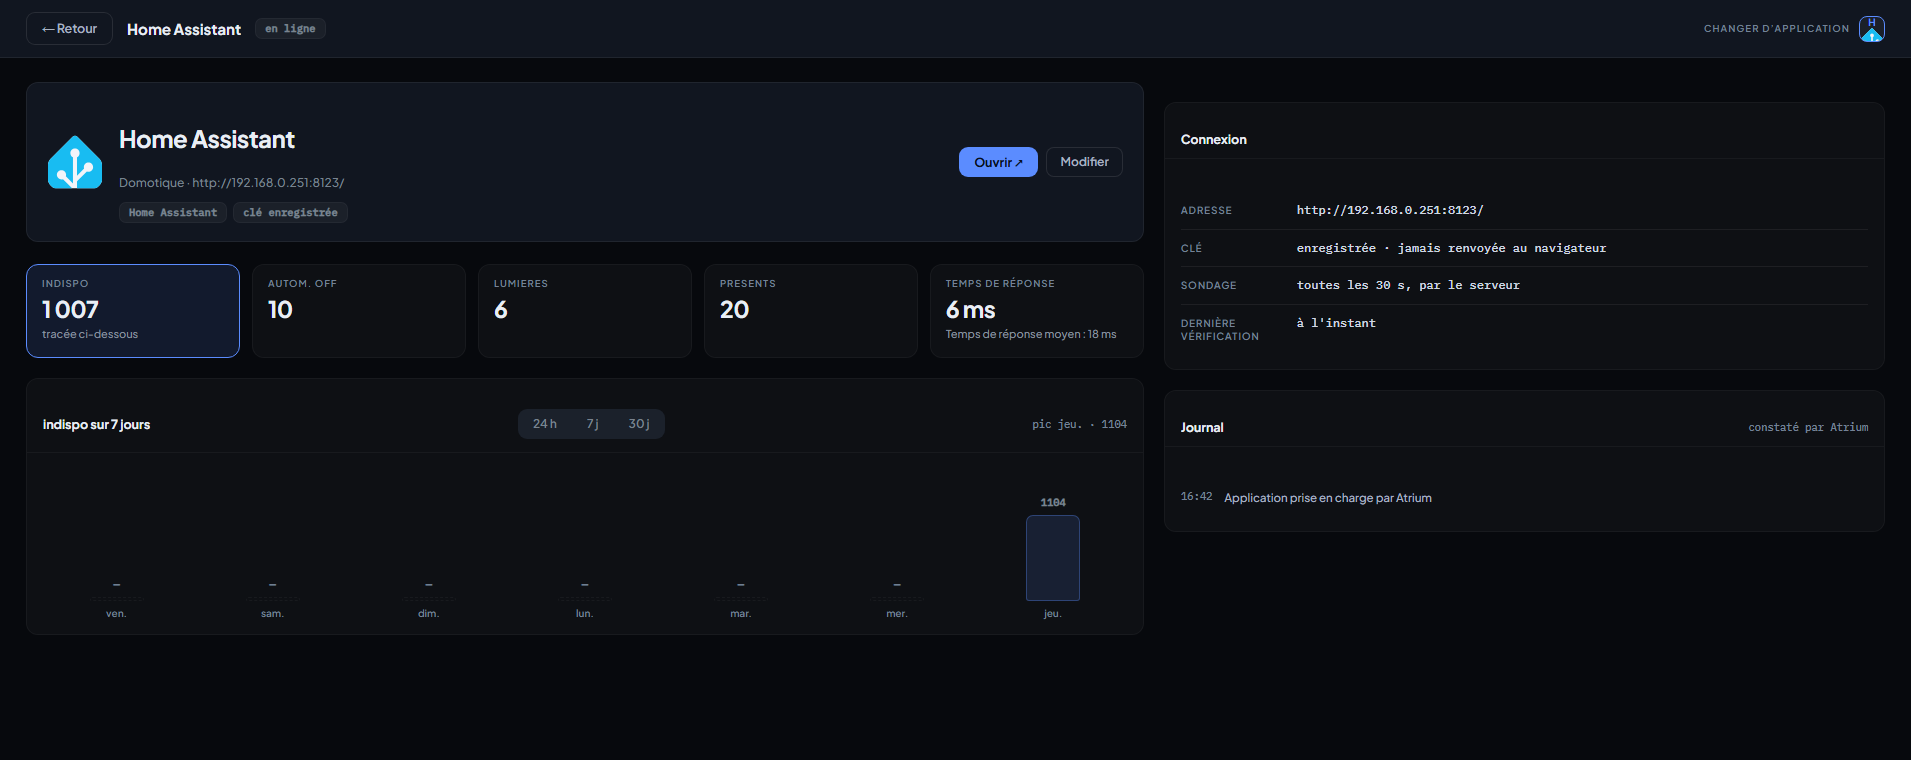
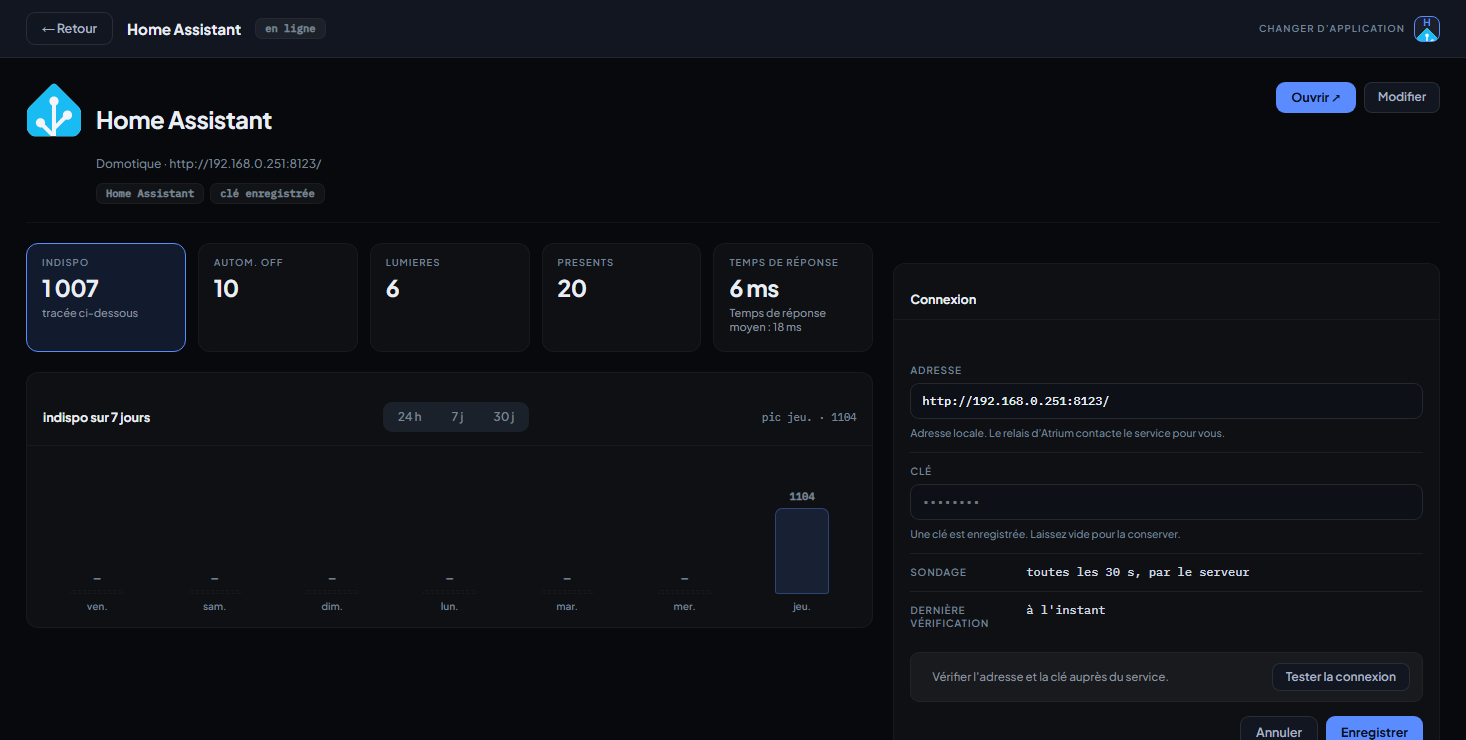
Fiche : entête pleine largeur, et la connexion se modifie sur place
L'entête traverse la page et n'est plus une carte : elle nomme le service, un
filet la sépare de ce qui le détaille, et les mesures comme la connexion
commencent à la même hauteur.

Le panneau Connexion redevient un formulaire — adresse, clé, tester, annuler,
enregistrer. Devoir ouvrir une fenêtre pour corriger une adresse depuis la page
qui la montre était un détour.

Le champ de clé part vide et n'affiche jamais celle qui est enregistrée : le
laisser vide la conserve. Un champ qu'on n'a pas rempli n'est pas une intention
d'effacement.

L'intervalle de rafraîchissement reste une ligne de texte : le sondage est
global, toutes les trente secondes, et le rendre modifiable ici promettrait un
réglage qui n'existe pas.

La version relevée pendant le test est conservée.

Deux blocs avaient encore été renommés par erreur au tour précédent : la carte
d'identité des Réglages et les vignettes d'À propos, dont les règles .ap-tete et
.ap-tuiles étaient devenues .fa-. La carte d'identité, déclarée plus loin dans la
feuille, gagnait sur la mienne — d'où le fond et le contour que l'entête n'aurait
jamais dû avoir. Bornes rétablies, suites Réglages et À propos vertes.

diff --git a/app/static/index.html b/app/static/index.html
@@ -860,7 +860,10 @@ a.card:hover{box-shadow:var(--sh-hover);border-color:var(--accent-border);transf
 .fa-cols{display:grid;grid-template-columns:minmax(0,1.55fr) minmax(0,1fr);gap:20px;
          align-items:start}
 @media (max-width:1080px){ .fa-cols{grid-template-columns:1fr} }
-.fa-tete{display:flex;align-items:flex-start;gap:14px;margin-bottom:20px}
+/* L'entête traverse la page : elle nomme le service, elle n'est pas une carte
+   parmi d'autres. Un filet la sépare de ce qui la détaille. */
+.fa-tete{display:flex;align-items:flex-start;gap:14px;padding-bottom:18px;margin-bottom:20px;
+         border-bottom:1px solid var(--hair2)}
 .fa-tete .logo-chip{width:56px;height:56px;border-radius:14px;font-size:20px}
 .fa-tete h3{font:700 24px/1.1 'Plus Jakarta Sans',sans-serif;letter-spacing:-.02em}
 .fa-sous{margin-top:5px;font:500 12px/1.4 'Plus Jakarta Sans',sans-serif;color:var(--t5)}
@@ -869,7 +872,7 @@ a.card:hover{box-shadow:var(--sh-hover);border-color:var(--accent-border);transf
           font:600 10.5px/1 'IBM Plex Mono',monospace;color:var(--t5)}
 .fa-badge.alerte{background:var(--bad-soft);border-color:var(--bad);color:var(--bad-text)}
 .fa-actions{margin-left:auto;display:flex;gap:8px;flex:none}
-.fa-tuiles{display:grid;grid-template-columns:repeat(auto-fit,minmax(150px,1fr));gap:12px}
+.fa-tuiles{display:grid;grid-template-columns:repeat(auto-fit,minmax(132px,1fr));gap:12px}
 .fa-tuile{padding:14px 15px 16px;border:1px solid var(--hair2);border-radius:12px;
           background:var(--s2);text-align:left;transition:border-color .15s}
 .fa-tuile[data-mes]{cursor:pointer}
@@ -922,6 +925,27 @@ a.card:hover{box-shadow:var(--sh-hover);border-color:var(--accent-border);transf
                letter-spacing:.08em;text-transform:uppercase;color:var(--t7)}
 .fa-conn .r .v{flex:1;min-width:0;font:500 12px/1.4 'IBM Plex Mono',monospace;color:var(--t2);
                overflow:hidden;text-overflow:ellipsis}
+/* Le panneau se modifie sur place : venir voir un service et devoir ouvrir une
+   fenêtre pour corriger son adresse était un détour. */
+.fa-champ{display:flex;flex-direction:column;gap:6px;padding:12px 0;
+          border-bottom:1px solid var(--hair)}
+.fa-champ:last-of-type{border-bottom:0}
+.fa-champ label{font:600 10px/1.3 'Plus Jakarta Sans',sans-serif;letter-spacing:.08em;
+                text-transform:uppercase;color:var(--t7)}
+.fa-champ input{width:100%;padding:9px 11px;border-radius:9px;border:1px solid var(--hair4);
+                background:var(--field);color:var(--t1);
+                font:500 12px/1.3 'IBM Plex Mono',monospace;outline:none;
+                transition:border-color .15s}
+.fa-champ input:focus{border-color:var(--acc)}
+.fa-champ .aide{font:500 10.5px/1.45 'Plus Jakarta Sans',sans-serif;color:var(--t7)}
+.fa-test{display:flex;align-items:center;gap:9px;margin-top:12px;padding:10px 12px;
+         border-radius:9px;border:1px solid var(--hair2);background:var(--s3);
+         font:500 11.5px/1.35 'Plus Jakarta Sans',sans-serif;color:var(--t4)}
+.fa-test .pt{flex:none}
+.fa-test.ok{border-color:var(--ok);background:var(--ok-soft);color:var(--ok-text)}
+.fa-test.bad{border-color:var(--bad);background:var(--bad-soft);color:var(--bad-text)}
+.fa-test button{margin-left:auto;flex:none}
+.fa-pied{display:flex;justify-content:flex-end;gap:8px;margin-top:14px}
 .fa-jrn{display:flex;flex-direction:column}
 .fa-jrn .e{display:flex;gap:12px;padding:9px 0;border-bottom:1px solid var(--hair)}
 .fa-jrn .e:last-child{border-bottom:0}
@@ -1222,19 +1246,19 @@ a.card:hover{box-shadow:var(--sh-hover);border-color:var(--accent-border);transf
 .note-card .tx b{font:600 12.5px/1.2 'Plus Jakarta Sans',sans-serif}
 .note-card .tx span{font:500 11.5px/1.5 'Plus Jakarta Sans',sans-serif;color:var(--muted-2)}
 /* À propos : l'application se décrit, sans rien demander à l'extérieur. */
-.fa-tete{display:flex;align-items:center;gap:16px;padding:18px 20px;border-radius:12px;
+.ap-tete{display:flex;align-items:center;gap:16px;padding:18px 20px;border-radius:12px;
          border:1px solid var(--border);background:var(--surface)}
-.fa-tete .marque{width:46px;height:46px;border-radius:13px;flex:none;display:grid;place-items:center;
+.ap-tete .marque{width:46px;height:46px;border-radius:13px;flex:none;display:grid;place-items:center;
                  background:var(--subtle);border:1px solid var(--border)}
-.fa-tete .marque svg{width:30px;height:30px}
-.fa-tete .tx{display:flex;flex-direction:column;gap:5px;min-width:0}
-.fa-tete .nom{display:flex;align-items:center;gap:9px;
+.ap-tete .marque svg{width:30px;height:30px}
+.ap-tete .tx{display:flex;flex-direction:column;gap:5px;min-width:0}
+.ap-tete .nom{display:flex;align-items:center;gap:9px;
               font:700 19px/1.1 'Plus Jakarta Sans',sans-serif;letter-spacing:-.02em}
-.fa-tete .ver{padding:3px 8px;border-radius:6px;background:var(--accent-soft);color:var(--accent);
+.ap-tete .ver{padding:3px 8px;border-radius:6px;background:var(--accent-soft);color:var(--accent);
               font:700 11px/1.3 'IBM Plex Mono',monospace}
-.fa-tete .sous{font:500 11.5px/1.4 'Plus Jakarta Sans',sans-serif;color:var(--muted-2)}
-.fa-tete .btn-sm{margin-left:auto;flex:none}
-.fa-tuiles{display:grid;grid-template-columns:repeat(auto-fit,minmax(196px,1fr));gap:12px;margin-top:22px}
+.ap-tete .sous{font:500 11.5px/1.4 'Plus Jakarta Sans',sans-serif;color:var(--muted-2)}
+.ap-tete .btn-sm{margin-left:auto;flex:none}
+.ap-tuiles{display:grid;grid-template-columns:repeat(auto-fit,minmax(196px,1fr));gap:12px;margin-top:22px}
 .ap-t{padding:13px 15px;border:1px solid var(--border);border-radius:12px;background:var(--surface)}
 .ap-t .l{font:600 10px/1 'Plus Jakarta Sans',sans-serif;letter-spacing:.11em;color:var(--muted-3)}
 .ap-t .v{margin-top:9px;font:700 19px/1 'Plus Jakarta Sans',sans-serif;letter-spacing:-.02em}
@@ -6117,7 +6141,6 @@ function peindreFiche() {
   const droite = document.createElement('div');
   cols.appendChild(gauche);
   cols.appendChild(droite);
-  body.appendChild(cols);
 
   /* --- identité --- */
   const tete = document.createElement('div');
@@ -6188,7 +6211,10 @@ function peindreFiche() {
   tete.appendChild(chip);
   tete.appendChild(ident);
   tete.appendChild(actions);
-  gauche.appendChild(tete);
+  /* Avant les colonnes, et sur toute la largeur : les mesures et la connexion
+     commencent alors à la même hauteur. */
+  body.appendChild(tete);
+  body.appendChild(cols);
 
   /* --- bandeau d'anomalie --- */
   if (sant === 'off' || (e && e.echecs)) {
@@ -6393,6 +6419,28 @@ function peindreFiche() {
   cxc.className = 'fa-corps';
   const liste = document.createElement('div');
   liste.className = 'fa-conn';
+
+  const champ = (id, lab, val, aide, type) => {
+    const c = document.createElement('div');
+    c.className = 'fa-champ';
+    const l = document.createElement('label');
+    l.setAttribute('for', id);
+    l.textContent = lab;
+    const i = document.createElement('input');
+    i.id = id;
+    i.type = type || 'text';
+    i.value = val;
+    i.autocomplete = 'off';
+    i.spellcheck = false;
+    const a = document.createElement('span');
+    a.className = 'aide';
+    a.textContent = aide;
+    c.appendChild(l);
+    c.appendChild(i);
+    c.appendChild(a);
+    liste.appendChild(c);
+    return i;
+  };
   const ligne = (lab, val) => {
     const r = document.createElement('div');
     r.className = 'r';
@@ -6406,14 +6454,91 @@ function peindreFiche() {
     r.appendChild(v);
     liste.appendChild(r);
   };
-  ligne(t('ap.url'), app.url || '—');
-  /* La clé n'est jamais réaffichée : le serveur ne la renvoie pas au navigateur
-     et la fiche n'en garde que l'existence. */
-  ligne(t('ap.cle'), (app.token || app.apiKey) ? t('ap.cle.enreg') : t('ap.cle.aucune'));
+
+  const urlIn = champ('fa-url', t('ap.url'), app.url || '', t('ap.url.d'));
+  /* La clé est modifiable ici, et le champ part vide : réafficher une clé
+     enregistrée sur un écran qu'on laisse ouvert n'apporte rien, et l'effacer
+     par mégarde suffirait à couper l'intégration. Vide = on n'y touche pas. */
+  const cleIn = champ('fa-cle', t('ap.cle'), '',
+    (app.token || app.apiKey) ? t('ap.cle.d.enreg') : t('ap.cle.d.aucune'), 'password');
+  cleIn.placeholder = (app.token || app.apiKey) ? '\u2022\u2022\u2022\u2022\u2022\u2022\u2022\u2022' : t('ap.cle.aucune');
+  /* Le sondage est global : l'annoncer comme réglable ici serait promettre un
+     réglage qui n'existe pas. */
   ligne(t('ap.cycle'), t('ap.cycle.v'));
   if (e && e.vu_a) ligne(t('app.seen.t'), age(e.vu_a));
   if (cont) ligne(t('st.container'), cont.nom + ' \u00b7 ' + cont.etat);
   cxc.appendChild(liste);
+
+  const test = document.createElement('div');
+  test.className = 'fa-test';
+  const pt = document.createElement('span');
+  pt.className = 'pt';
+  const txTest = document.createElement('span');
+  txTest.textContent = t('ap.test.pret');
+  const btTest = document.createElement('button');
+  btTest.className = 'btn-sm';
+  btTest.type = 'button';
+  btTest.textContent = t('f.test');
+  test.appendChild(pt);
+  test.appendChild(txTest);
+  test.appendChild(btTest);
+  cxc.appendChild(test);
+
+  const dire = (etat, texte) => {
+    test.className = 'fa-test' + (etat ? ' ' + etat : '');
+    txTest.textContent = texte;
+  };
+  btTest.addEventListener('click', async () => {
+    const u = urlIn.value.trim();
+    if (!u) { dire('bad', t('f.test.nourl')); return; }
+    dire('', t('f.test.wait'));
+    try {
+      const r = await relayFetch('/api/detect', {
+        method: 'POST',
+        headers: { 'Content-Type': 'application/json' },
+        body: JSON.stringify({ url: u, cle: cleIn.value || app.token || app.apiKey || '' }),
+      });
+      const d = await r.json();
+      if (!r.ok) { dire('bad', d.error || ('HTTP ' + r.status)); return; }
+      if (!d.trouve) {
+        dire(d.joignable ? '' : 'bad',
+             d.joignable ? t('f.test.unknown') : t('f.test.unreachable'));
+        return;
+      }
+      /* La version relevée au test est conservée : c'est le seul moment où le
+         serveur la connaît. */
+      if (d.version) { app.version = d.version; saveApps(); }
+      dire('ok', t('f.test.detected', { nom: d.nom + (d.version ? ' ' + d.version : '') }));
+    } catch (err) { dire('bad', String(err.message || err)); }
+  });
+
+  const pied = document.createElement('div');
+  pied.className = 'fa-pied';
+  const annuler = document.createElement('button');
+  annuler.className = 'btn-ghost';
+  annuler.type = 'button';
+  annuler.textContent = t('btn.cancel');
+  annuler.addEventListener('click', peindreFiche);
+  const enreg = document.createElement('button');
+  enreg.className = 'btn-primary';
+  enreg.type = 'button';
+  enreg.textContent = t('btn.save');
+  enreg.addEventListener('click', () => {
+    app.url = urlIn.value.trim();
+    /* Un champ laissé vide ne supprime pas la clé : on ne devine pas une
+       intention d'effacement à partir d'un champ qu'on n'a pas rempli. */
+    if (cleIn.value) {
+      if (kindOfApp(app) === 'ha') app.token = cleIn.value;
+      else app.apiKey = cleIn.value;
+    }
+    saveApps();
+    toast(t('ap.enregistre'));
+    peindreFiche();
+    pollSupervision();
+  });
+  pied.appendChild(annuler);
+  pied.appendChild(enreg);
+  cxc.appendChild(pied);
   cx.appendChild(cxh);
   cx.appendChild(cxc);
   droite.appendChild(cx);

diff --git a/app/static/i18n.js b/app/static/i18n.js
@@ -368,6 +368,11 @@
     'ap.connexion': 'Connexion',
     'ap.url': 'Adresse',
     'ap.cle': 'Clé',
+    'ap.url.d': 'Adresse locale. Le relais d’Atrium contacte le service pour vous.',
+    'ap.cle.d.enreg': 'Une clé est enregistrée. Laissez vide pour la conserver.',
+    'ap.cle.d.aucune': 'Aucune clé enregistrée. Requise pour remonter les chiffres.',
+    'ap.test.pret': 'Vérifier l’adresse et la clé auprès du service.',
+    'ap.enregistre': 'Connexion enregistrée.',
     'ap.cle.enreg': 'enregistrée · jamais renvoyée au navigateur',
     'ap.cle.aucune': 'aucune',
     'ap.cycle': 'Sondage',
@@ -1023,6 +1028,11 @@
     'ap.connexion': 'Connection',
     'ap.url': 'Address',
     'ap.cle': 'Key',
+    'ap.url.d': 'Local address. Atrium’s relay contacts the service for you.',
+    'ap.cle.d.enreg': 'A key is stored. Leave empty to keep it.',
+    'ap.cle.d.aucune': 'No key stored. Required to report figures.',
+    'ap.test.pret': 'Check the address and key against the service.',
+    'ap.enregistre': 'Connection saved.',
     'ap.cle.enreg': 'stored · never sent back to the browser',
     'ap.cle.aucune': 'none',
     'ap.cycle': 'Probing',
